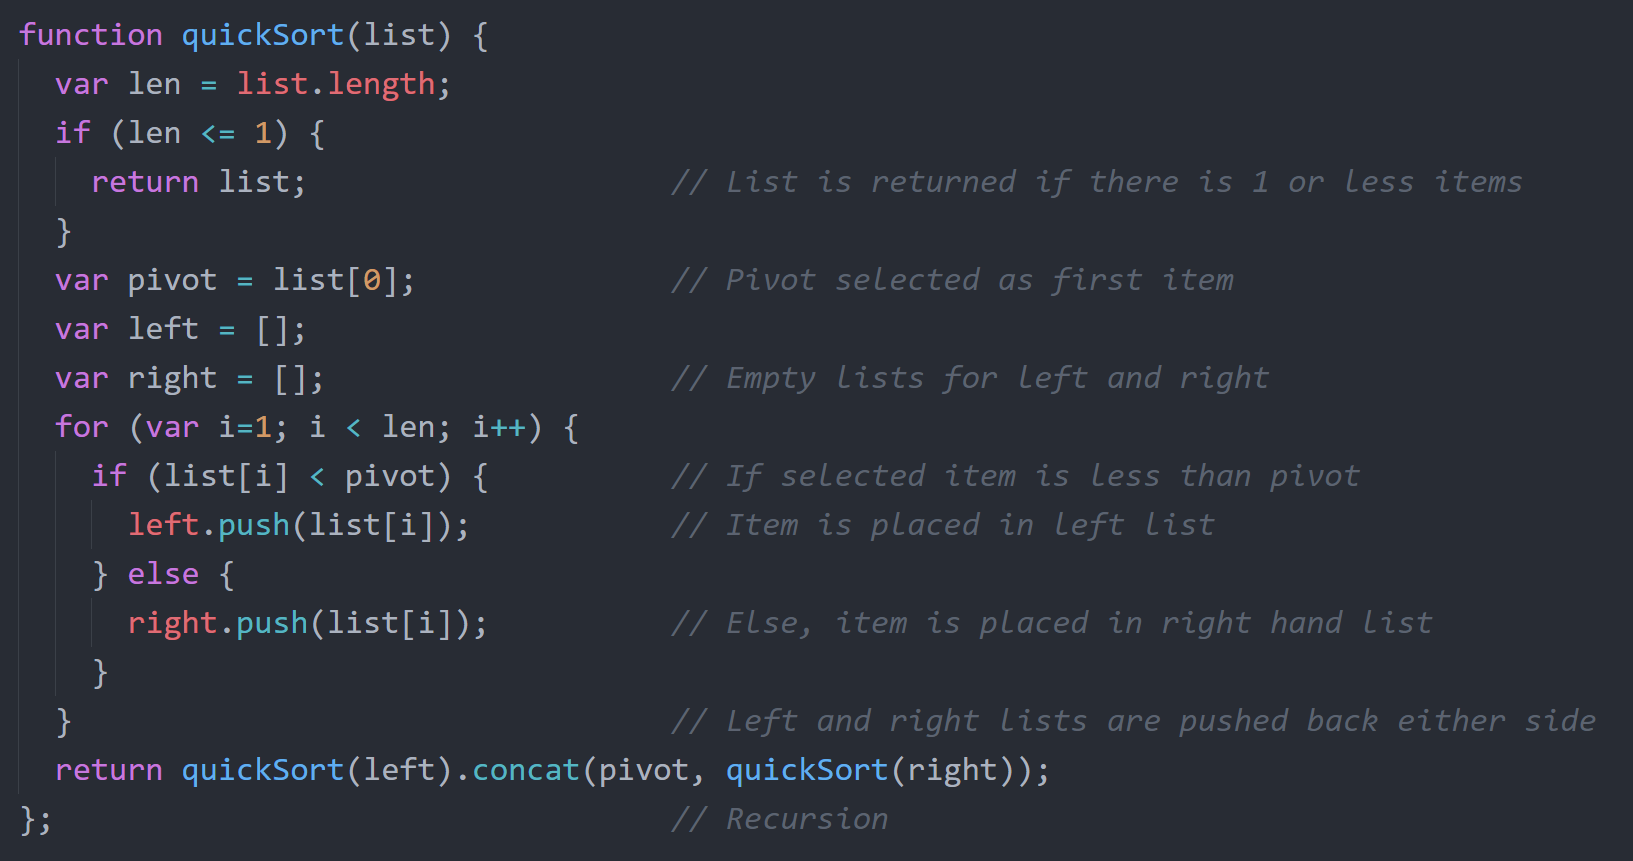
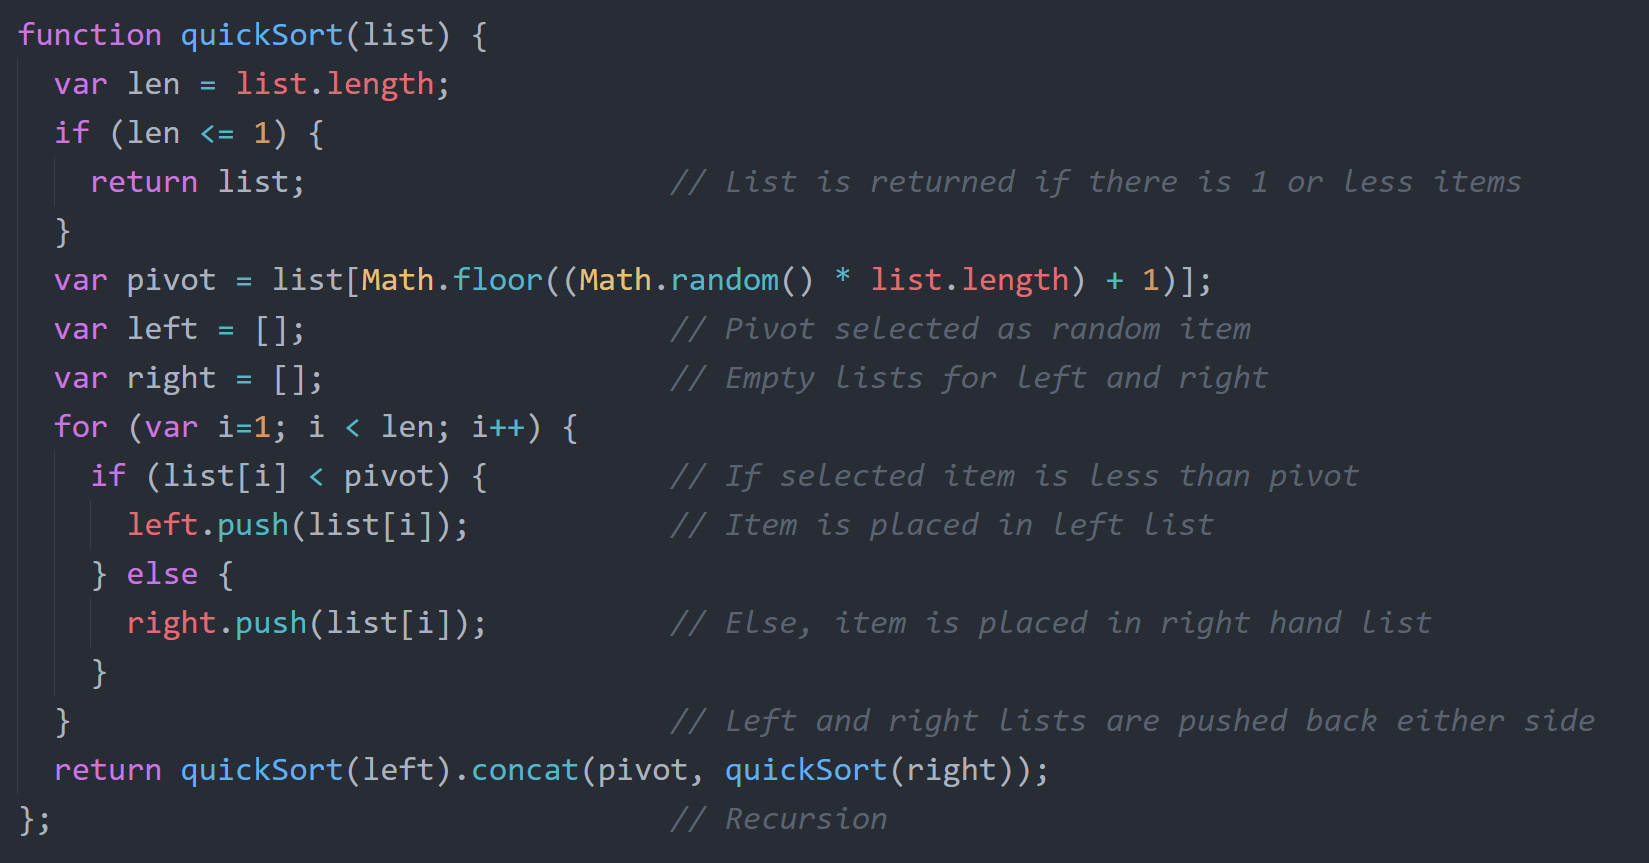
Quicksort Pivot Changed to Random
As well as some grammar alterations

diff --git a/portfolio/sortroutines.html b/portfolio/sortroutines.html
@@ -189,8 +189,8 @@
           </div>
           <div class="bubble-sort">
             <h2>Bubble Sort</h2>
-            <p>The bubble sort routine works by comparing two values and swapping their positions depending on their values. For example, if a list is required to be ordered from smallest to largest, the bigger values will be moved to the right and the smaller
-              ones will be moved to the left. This sort routine makes passes over the list until it is ordered.</p>
+            <p>The bubble sort routine works by comparing two values and swapping their positions depending on their size. For example, if a list is required to be ordered from smallest to largest, the bigger values will be moved to the right and the smaller
+              ones will be moved to the left. This sort routine makes passes over the list until it is ordered correctly.</p>
             <p>The table below shows the workings of this sort routine (highlighted is where swaps occur; braces show swap pairs).</p>
             <div id="bubblesort-table">
               <table style="width: 100%;">
@@ -448,9 +448,9 @@
           </div>
           <div class="quick-sort">
             <h2>Quick Sort</h2>
-            <p>The quicksort is a much more complex sorting routine which invloves recursion (a function/subroutine calling itself). It involves picking a pivot number which is used to compare against elements. All elements which are smaller are placed in
+            <p>The quicksort is a much more complex sorting routine which implements recursion (a function/subroutine calling itself). It involves picking a pivot number which is used to compare against elements. All elements which are smaller are placed in
               a 'smaller than' list and elements which are larger are placed in a 'larger than' list. The same function is then performed on both of these lists repeatedly until there are either 1 or 0 elements in all lists. All lists are then collected
-              back together sorted. The pivot number can be chosen at random; however, it is more effective to pick a pivot which is around the middle (which is unknown to begin with, leaving it by chance).</p>
+              back together, sorted. The pivot number can be chosen at random, or the first or last item; however, it is more effective to pick a pivot which is around the middle (which is unknown to begin with, leaving it by chance).</p>
             <p>The table below shows the workings of this sort routine (highlighted indicated pivot number; braces show sorted lists).</p>
             <div id="quicksort-table">
               <table>

diff --git a/portfolio/sortroutines.js b/portfolio/sortroutines.js
@@ -35,18 +35,18 @@ $(document).ready(function() {
     if (len <= 1) {
       return list;                    // List is returned if there is 1 or less items
     }
-    var pivot = list[0];              // Pivot selected as first item
-    var left = [];
+    var pivot = list[Math.floor((Math.random() * list.length) + 1)];
+    var left = [];                    // Pivot selected as random item
     var right = [];                   // Empty lists for left and right
     for (var i=1; i < len; i++) {
-      if (list[i] < pivot) {
-        left.push(list[i]);
+      if (list[i] < pivot) {          // If selected item is less than pivot
+        left.push(list[i]);           // Item is placed in left list
       } else {
-        right.push(list[i]);
+        right.push(list[i]);          // Else, item is placed in right hand list
       }
-    }                                 // Values are pushed either side of the pivot depending on size
+    }                                 // Left and right lists are pushed back either side
     return quickSort(left).concat(pivot, quickSort(right));
-  };                                  // Concatenates values back together
+  };                                  // Recursion
 
   $('#btnSort').click(function() {
     var unsplitListInput = $('#arrayInput').val();
